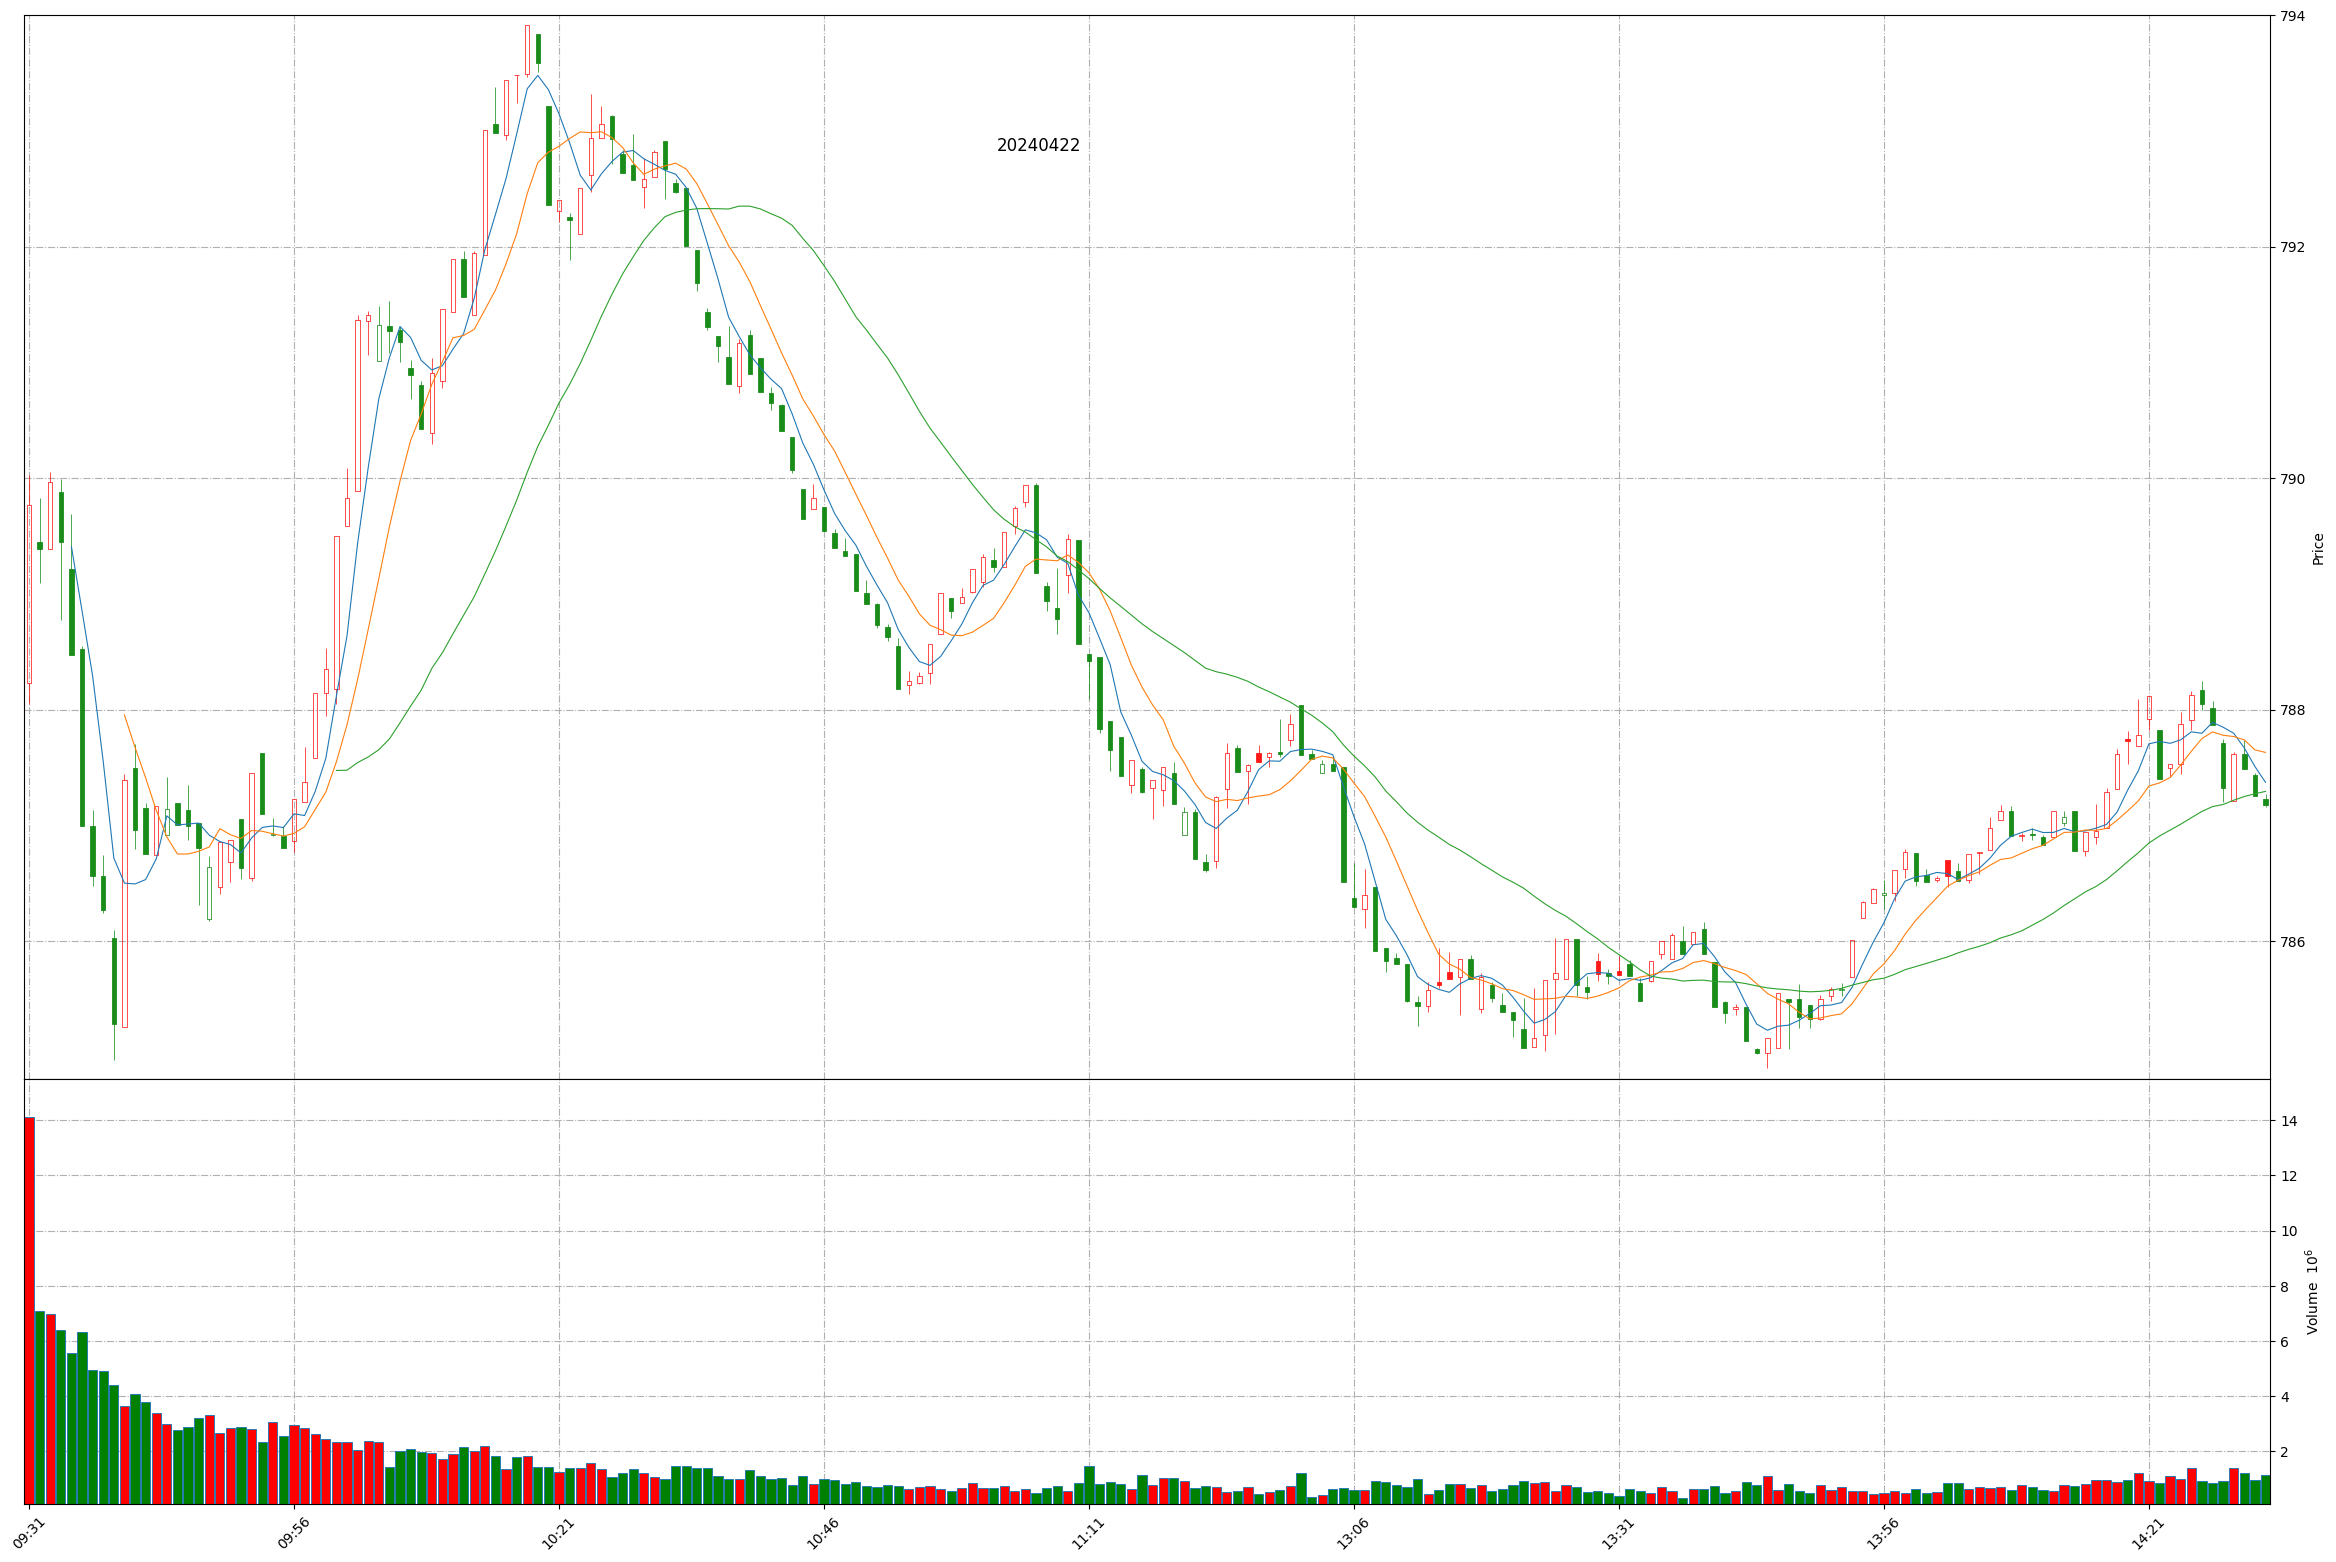
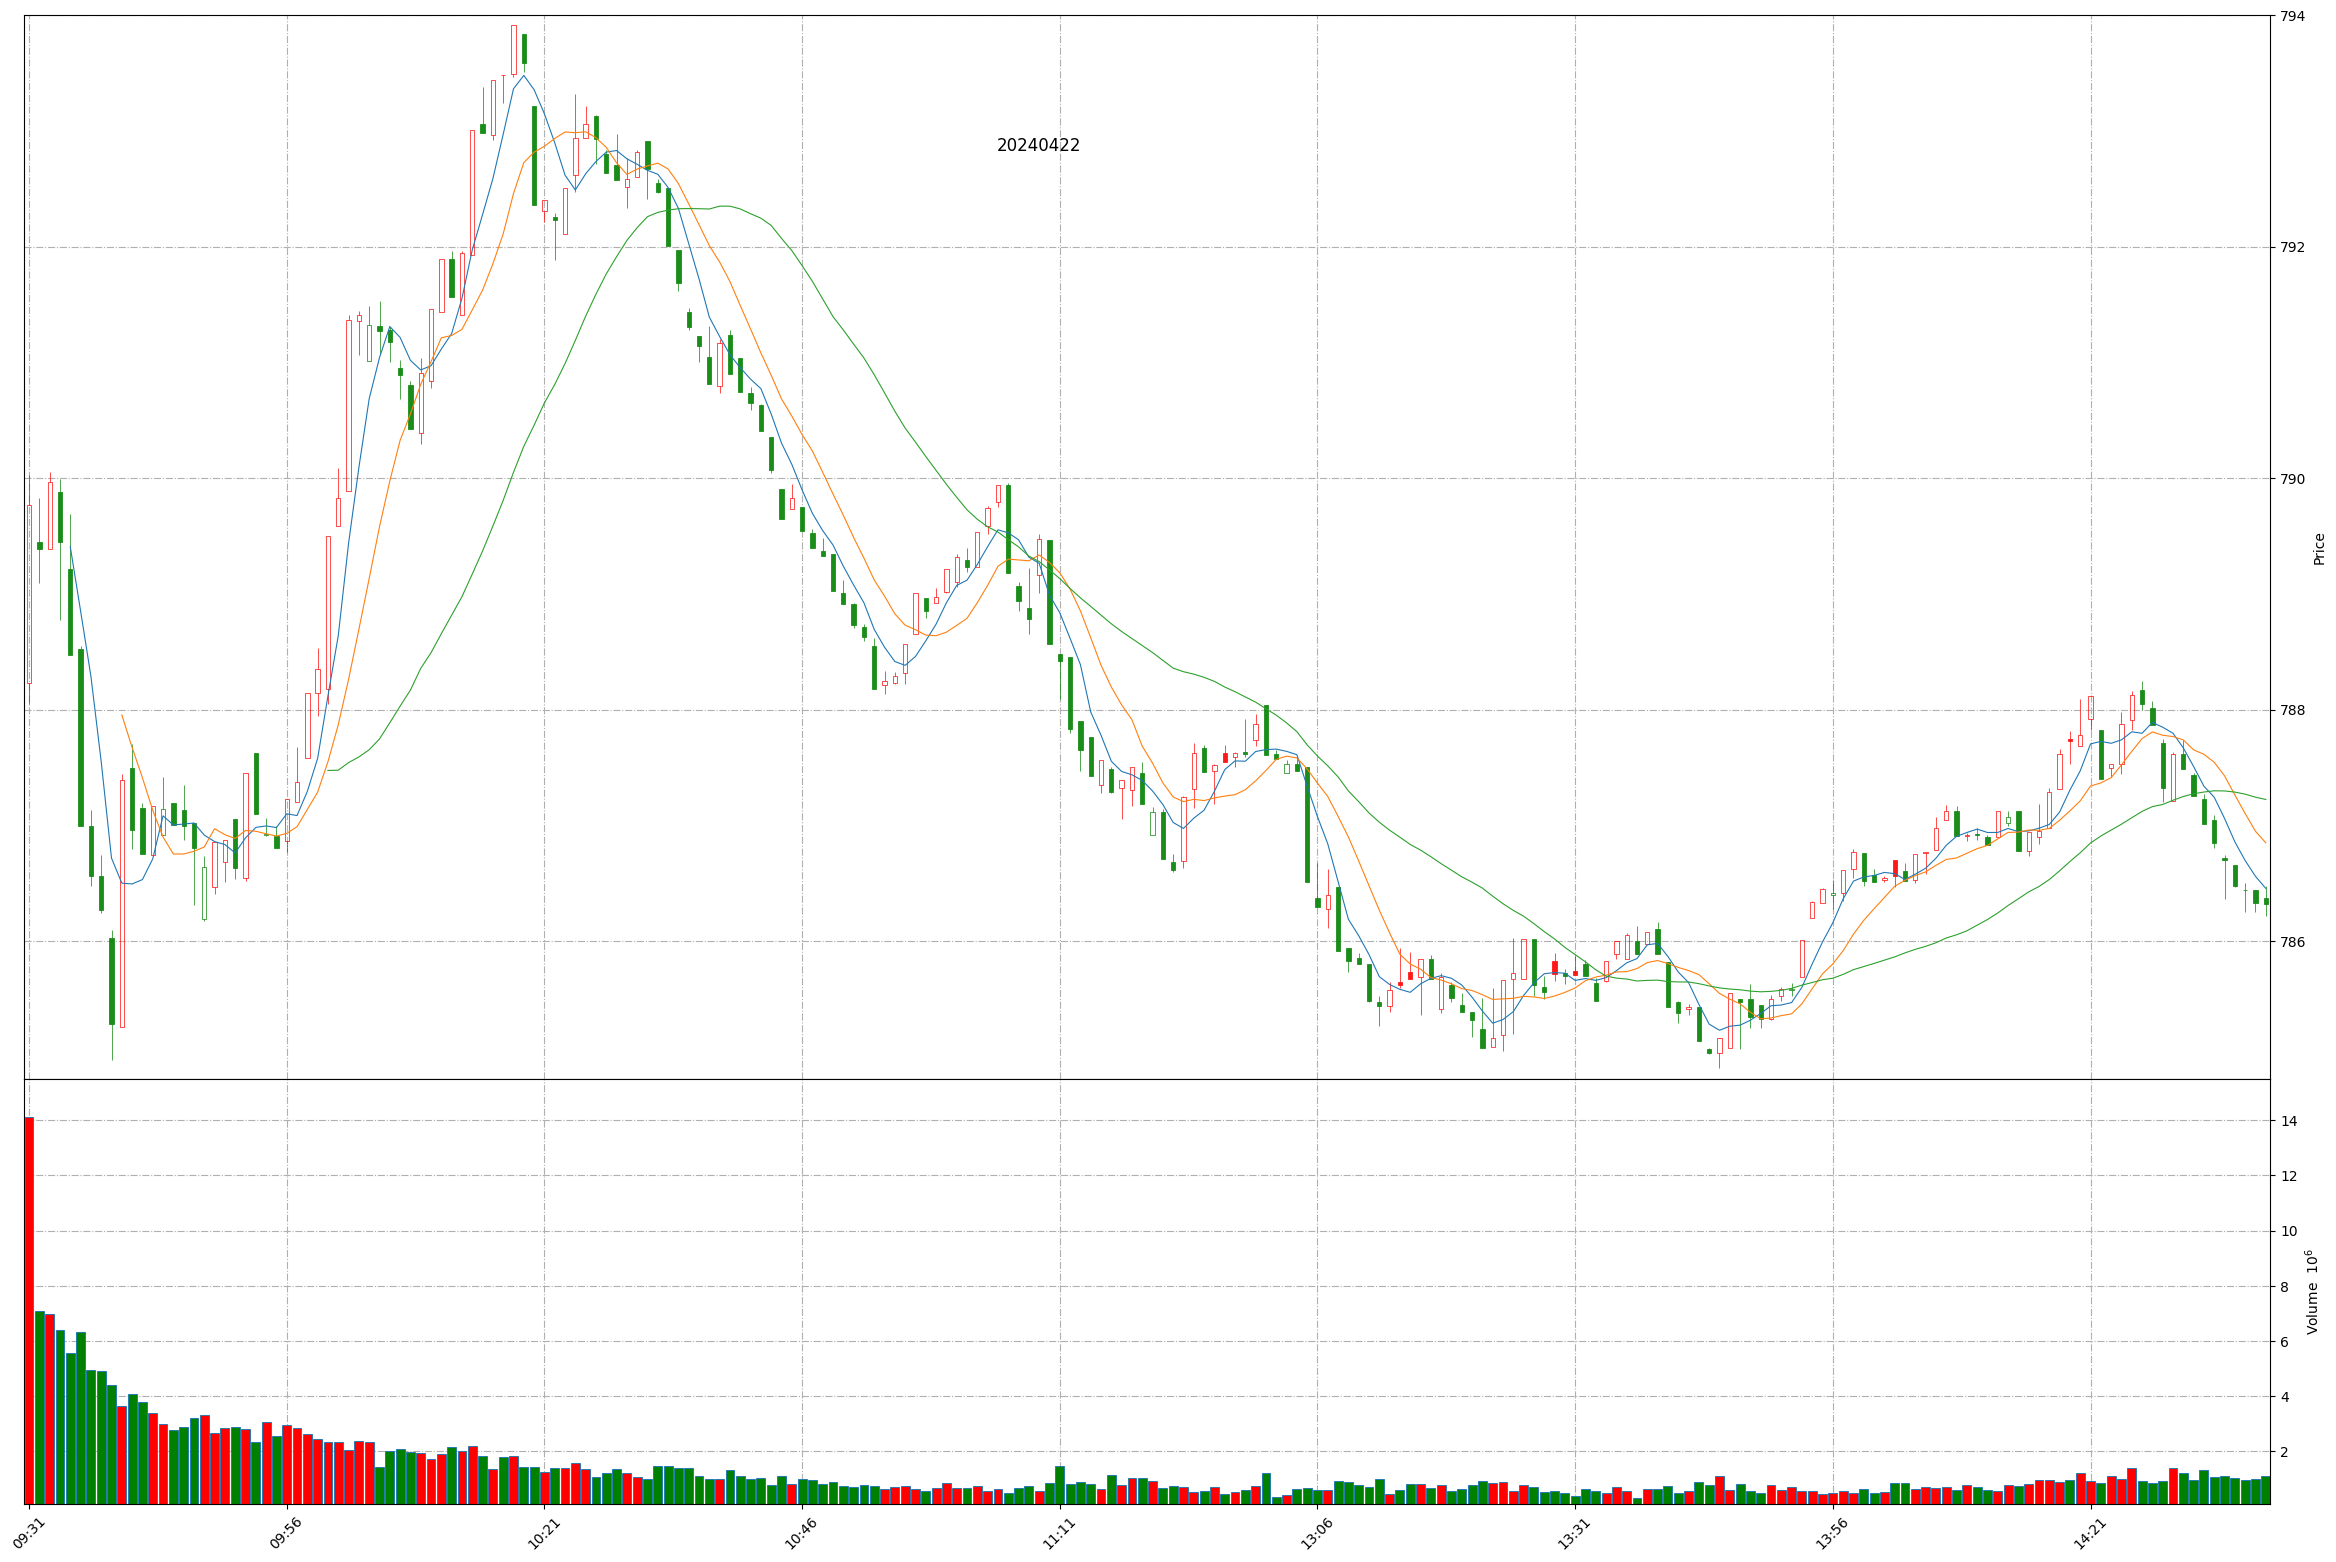
Github action update at 2024-04-22 14:37:55.

diff --git a/README.md b/README.md
@@ -1,11 +1,11 @@
 
 # Daily-A-share-market-quotes 每日 A 股指数（5min 更新）- 20240422
 
-### 上证指数 20240422 14:32
+### 上证指数 20240422 14:37
 ![](./fig/2024/4/20240422-sh000001.png)
 
-### 深证成指 20240422 14:32
+### 深证成指 20240422 14:37
 ![](./fig/2024/4/20240422-sz399001.png)
 
-### 北证50 20240422 14:32
+### 北证50 20240422 14:37
 ![](./fig/2024/4/20240422-bj899050.png)
